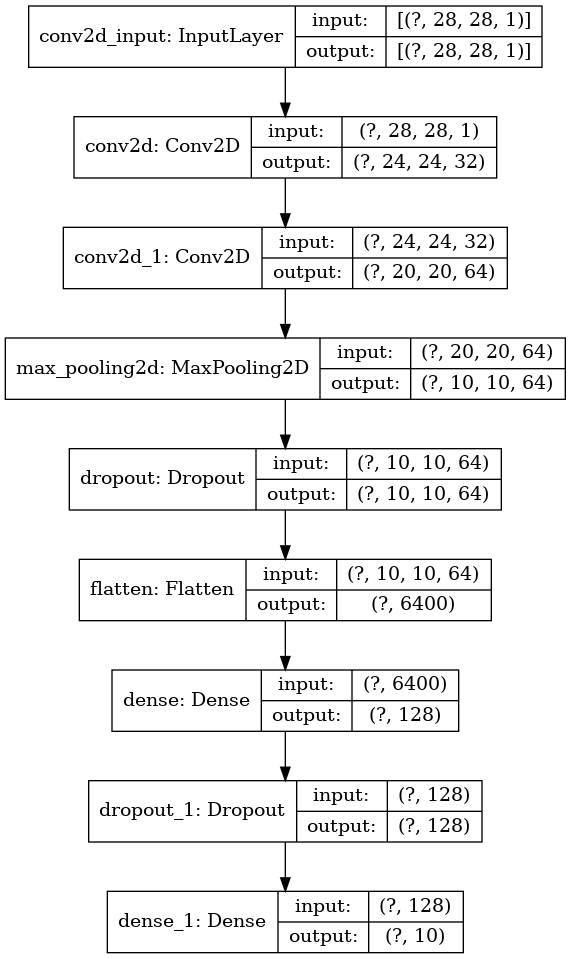
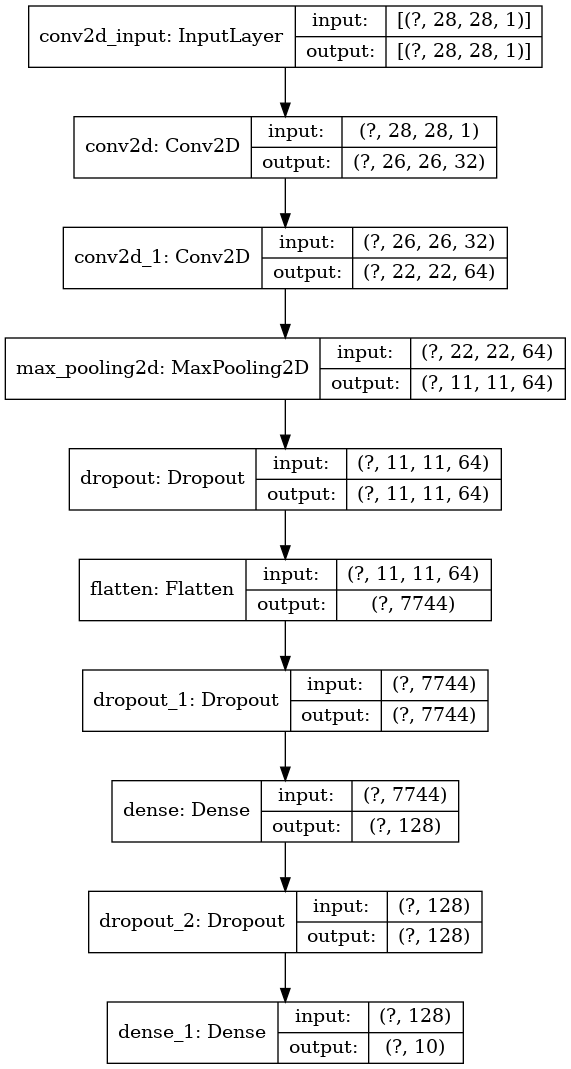
Run a simple recognition

Changed region(s): [[0.0, 0.0, 1.0, 0.9979], [0.2977, 0.0, 0.3275, 0.0302], [0.1786, 0.6955, 0.2084, 0.7258]]

diff --git a/digit_recognition.py b/digit_recognition.py
@@ -13,21 +13,20 @@ x_test.reshape(-1, x_test.shape[1], x_test.shape[2], 1)
 print('x_train shape:', x_train.shape)
 print(x_train.shape[0], 'train samples')
 print(x_test.shape[0], 'test samples')
-
+    
 # 參數
-batch_size = 32
+batch_size = 20
 num_classes = 10
 epochs = 1
 
 # 建立 model
 model = keras.Sequential()
-model.add(keras.layers.Conv2D(32, kernel_size=(5, 5),
-activation='relu',
-input_shape=(28, 28, 1)))
+model.add(keras.layers.Conv2D(32, kernel_size=(3,3),activation='relu',input_shape=(28, 28, 1)))
 model.add(keras.layers.Conv2D(64, (5, 5), activation='relu'))
 model.add(keras.layers.MaxPooling2D(pool_size=(2, 2)))
 model.add(keras.layers.Dropout(0.25))
 model.add(keras.layers.Flatten())
+model.add(keras.layers.Dropout(0.5))
 model.add(keras.layers.Dense(128, activation='relu'))
 model.add(keras.layers.Dropout(0.5))
 model.add(keras.layers.Dense(num_classes, activation='softmax'))

diff --git a/test.py b/test.py
@@ -1,0 +1,3 @@
+import tensorflow as tf
+
+(x_train,y_train),(x_test,y_test) = tf.keras.datasets.mnist.load_data()
